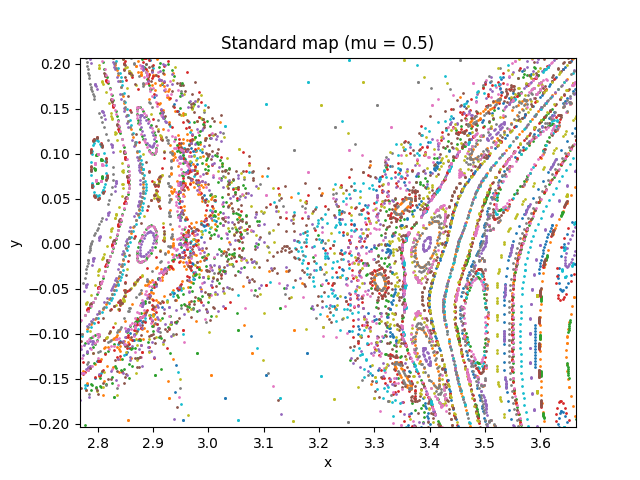
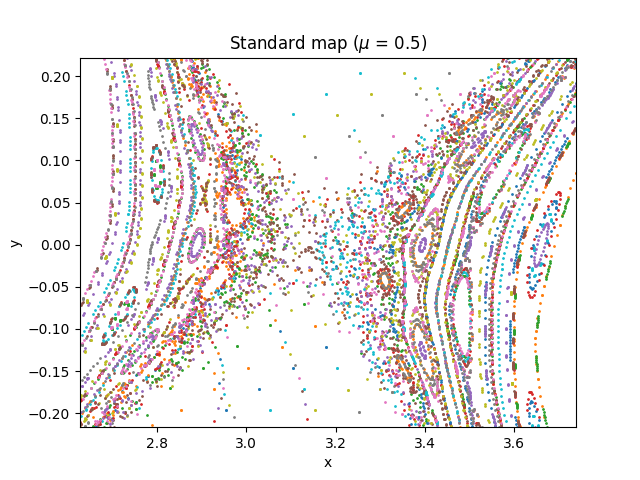
Standard map trajectories

diff --git a/trajectories.py b/trajectories.py
@@ -44,7 +44,7 @@ for xi in x:
 # ---------- Plot trajectory
 		plt.scatter(statelist[:,0], statelist[:,1], s=1)
 
-plt.title('Standard map (mu = 0.5)')
+plt.title(r'Standard map ($\mu$ = 0.5)')
 plt.xlabel('x')
 plt.ylabel('y')
 plt.show()
